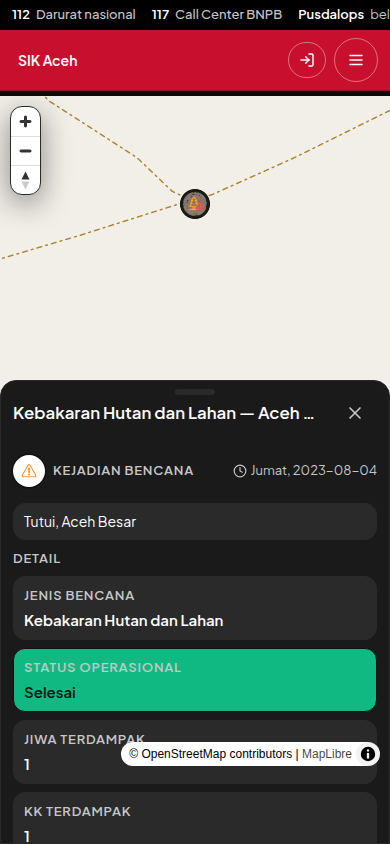
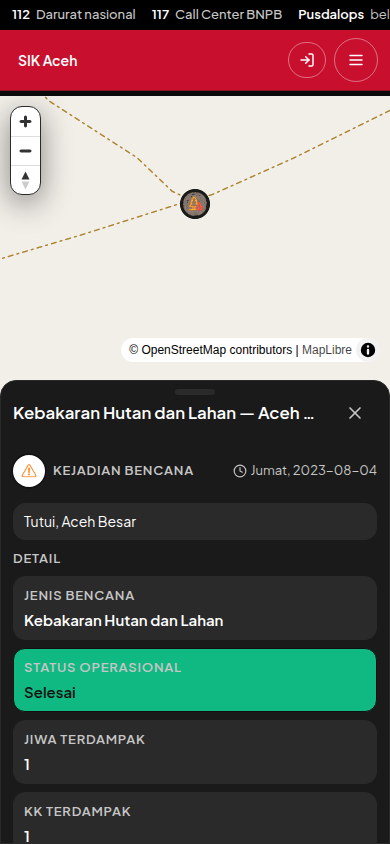
FE-73: lift map attribution above the open phone sheet.
At the default snap the credit strip sits 8px above the sheet and stays clickable. At full it drops under the sheet and returns to the safe-area edge when the sheet closes. A wheel inside the sheet scrolls the card and leaves the map zoom unchanged.

Changed region(s): [[0.3077, 0.8626, 0.9846, 0.9242], [0.3385, 0.4005, 0.8923, 0.4313], [0.9231, 0.4005, 0.9538, 0.4313]]

diff --git a/src/lib/fe-73-map-sheet.test.ts b/src/lib/fe-73-map-sheet.test.ts
@@ -8,6 +8,7 @@ import {
   reduceFeatureSlot,
 } from "@/lib/feature-card-query";
 import {
+  attributionLift,
   nearestSheetSnap,
   sheetCameraPadding,
   sheetFrame,
@@ -57,7 +58,7 @@ describe("FE-73 map sheet", () => {
     assert.doesNotMatch(sheet, /peek/);
   });
 
-  it("hides the layer handle, closes on empty map, and keeps a marker tap open", () => {
+  it("hides the layer handle while the phone sheet is open", () => {
     const css = read("src/app/globals.css");
     const hide = css.slice(css.indexOf("Phone sheet covers"));
     assert.match(hide, /max-width: 767px/);
@@ -67,33 +68,60 @@ describe("FE-73 map sheet", () => {
     const toolbarAt = workspace.indexOf("<MapToolbar");
     const toolbarMount = workspace.slice(toolbarAt, workspace.indexOf("<div", toolbarAt));
     assert.equal(toolbarMount.includes("featurePopupOpen"), false);
+  });
+
+  it("closes from the button, Escape, a swipe past default, or an empty-map tap, then focuses the canvas", () => {
     assert.equal(
       shouldCloseSheetOnMapClick({ narrow: true, sheetOpen: true, hitFeature: false }),
       true,
     );
     assert.equal(
-      shouldCloseSheetOnMapClick({ narrow: true, sheetOpen: true, hitFeature: true }),
-      false,
-    );
-    assert.equal(
       shouldCloseSheetOnMapClick({ narrow: false, sheetOpen: true, hitFeature: false }),
       false,
     );
+    const frame = sheetFrame(844, 0, 2000);
+    assert.equal(nearestSheetSnap(frame.default - 40, frame), "closed");
     const viewport = read("src/components/map/MapViewport.tsx");
     assert.match(viewport, /shouldCloseSheetOnMapClick/);
     assert.match(viewport, /closeEmptySheet/);
-    assert.match(viewport, /setPopup\(\{/);
-    const marker = viewport.slice(viewport.indexOf("pointFeat && pointFeat.geometry.type"));
-    assert.match(marker, /setPopup\(\{/);
-    assert.doesNotMatch(marker.slice(0, marker.indexOf("setCardId(id)")), /setPopup\(null\)/);
+    assert.match(viewport, /getCanvas\(\)\?\.focus\(\)/);
     const sheet = read("src/components/map/MapFeatureSheet.tsx");
     assert.match(sheet, /event.key !== "Escape"/);
     assert.match(sheet, /data-sheet-close/);
     assert.match(sheet, /h-11 w-11/);
     assert.match(sheet, /height: SHEET_HEADER_PX/);
-    assert.match(viewport, /getCanvas\(\)\?\.focus\(\)/);
-    assert.match(sheet, /stopPropagation/);
-    assert.match(css, /z-index:\s*40 !important/);
+  });
+
+  it("replaces sheet content when another marker is tapped", () => {
+    assert.equal(
+      shouldCloseSheetOnMapClick({ narrow: true, sheetOpen: true, hitFeature: true }),
+      false,
+    );
+    const viewport = read("src/components/map/MapViewport.tsx");
+    const marker = viewport.slice(viewport.indexOf("pointFeat && pointFeat.geometry.type"));
+    assert.match(marker, /setPopup\(\{/);
+    assert.doesNotMatch(marker.slice(0, marker.indexOf("setCardId(id)")), /setPopup\(null\)/);
+    assert.match(viewport, /acceptFeatureCard/);
+    assert.match(viewport, /loadFeatureCard/);
+  });
+
+  it("lifts attribution above the default sheet and does not let a wheel inside the sheet zoom the map", () => {
+    const mapBottom = 776;
+    const sheetTop = 380;
+    const lift = attributionLift({ mapBottom, sheetTop, gap: 8 });
+    assert.equal(lift, mapBottom - sheetTop + 8);
+    assert.ok(mapBottom - lift <= sheetTop - 8);
+    const css = read("src/app/globals.css");
+    assert.match(css, /data-sheet-snap="default"\] \.maplibregl-ctrl-bottom-right/);
+    assert.match(css, /bottom:\s*var\(--map-attrib-lift, 0px\)/);
+    assert.match(css, /data-sheet-snap="full"\] \.maplibregl-ctrl-bottom-right/);
+    assert.match(css, /z-index:\s*20 !important/);
+    assert.doesNotMatch(css, /data-feature-popup="open"\] \.maplibregl-ctrl-bottom/);
+    const sheet = read("src/components/map/MapFeatureSheet.tsx");
+    assert.match(sheet, /attributionLift/);
+    assert.match(sheet, /--map-attrib-lift/);
+    assert.match(sheet, /addEventListener\("wheel", stop, \{ capture: true \}\)/);
+    assert.match(sheet, /event\.stopPropagation\(\)/);
   });
 
   it("re-clamps an open popup when the map moves", () => {

diff --git a/src/components/map/MapFeatureSheet.tsx b/src/components/map/MapFeatureSheet.tsx
@@ -5,6 +5,7 @@ import { X } from "lucide-react";
 import { useTranslations } from "next-intl";
 import {
   SHEET_HEADER_PX,
+  attributionLift,
   nearestSheetSnap,
   sheetFrame,
   type SheetSnap,
@@ -93,6 +94,32 @@ export function MapFeatureSheet({
     window.addEventListener("keydown", onKey);
     return () => window.removeEventListener("keydown", onKey);
   }, [onClose]);
+
+  useLayoutEffect(() => {
+    const stage = rootRef.current?.closest(".map-stage");
+    if (!(stage instanceof HTMLElement) || !rootRef.current) return;
+    stage.setAttribute("data-sheet-snap", snap);
+    if (snap !== "default") {
+      stage.style.removeProperty("--map-attrib-lift");
+      return;
+    }
+    const map = stage.querySelector(".maplibregl-map");
+    if (!(map instanceof HTMLElement)) return;
+    const lift = attributionLift({
+      mapBottom: map.getBoundingClientRect().bottom,
+      sheetTop: rootRef.current.getBoundingClientRect().top,
+    });
+    stage.style.setProperty("--map-attrib-lift", `${lift}px`);
+  }, [snap, height]);
+
+  useEffect(() => {
+    return () => {
+      const stage = document.querySelector(".map-stage");
+      if (!(stage instanceof HTMLElement)) return;
+      stage.removeAttribute("data-sheet-snap");
+      stage.style.removeProperty("--map-attrib-lift");
+    };
+  }, []);
 
   useEffect(() => {
     const el = rootRef.current;

diff --git a/src/app/globals.css b/src/app/globals.css
@@ -1023,6 +1023,18 @@ html[data-theme="dark"] .map-layer-icon-disc {
     bottom: var(--map-safe-area-bottom, env(safe-area-inset-bottom, 0px));
     z-index: 40 !important;
   }
+
+  /* Default snap: sit the credit strip just above the sheet. Full snap: tuck it under the sheet. */
+  .map-stage[data-sheet-snap="default"] .maplibregl-ctrl-bottom-right,
+  .map-stage[data-sheet-snap="default"] .maplibregl-ctrl-bottom-left {
+    bottom: var(--map-attrib-lift, 0px);
+    z-index: 40 !important;
+  }
+
+  .map-stage[data-sheet-snap="full"] .maplibregl-ctrl-bottom-right,
+  .map-stage[data-sheet-snap="full"] .maplibregl-ctrl-bottom-left {
+    z-index: 20 !important;
+  }
 }
 
 .peta-teaser-kab {

diff --git a/src/lib/map-sheet.ts b/src/lib/map-sheet.ts
@@ -55,6 +55,19 @@ export function sheetCameraPadding(
   return { top: 0, right: 0, bottom: sheetHeight, left: 0 };
 }
 
+/**
+ * `bottom` offset for the map attribution, relative to the map box,
+ * so the strip's bottom edge sits `gap` px above the sheet.
+ */
+export function attributionLift(opts: {
+  mapBottom: number;
+  sheetTop: number;
+  gap?: number;
+}): number {
+  const gap = opts.gap ?? 8;
+  return Math.max(0, Math.round(opts.mapBottom - opts.sheetTop + gap));
+}
+
 /** A phone tap on empty map closes the sheet. A marker tap does not. */
 export function shouldCloseSheetOnMapClick(opts: {
   narrow: boolean;

diff --git a/docs/pengembangan/jurnal/FE-73.md b/docs/pengembangan/jurnal/FE-73.md
@@ -20,11 +20,11 @@ Spec HOLD: di bawah 768 tidak ada henti mengintip. Henti bawaan `min(55dvh, ting
 
 | Berkas | Isi |
 | --- | --- |
-| `MapFeatureSheet.tsx`, `map-sheet.ts` | Lembar bawah di bawah 768. Henti mengintip, setengah, penuh. Duduk di atas pegangan panel. |
+| `MapFeatureSheet.tsx`, `map-sheet.ts` | Lembar bawah di bawah 768. Henti bawaan dan penuh. `attributionLift` menaikkan strip kredit 8px di atas lembar. |
 | `MapViewport.tsx` | `onMove` mengirim `aceh:map-move`. Lembar di telepon, popup di desktop. Kueri memakai id dan `AbortSignal`. |
 | `MapFeatureCard.tsx` | `layout="sheet"` tidak menjepit. Popup menjepit ulang pada `aceh:map-move`. `fetchFeatureCard` meneruskan `signal`. |
 | `feature-card-query.ts` | `loadFeatureCard` menolak sinyal yang sudah batal. `acceptFeatureCard` menolak kartu yang id-nya bukan fitur terbuka. |
-| `ReportFAB.tsx`, `globals.css` | FAB naik `5.75rem` + tinggi strip kredit + 8px. `--map-credit-strip` diukur dari kontrol ⓘ. |
+| `ReportFAB.tsx`, `globals.css` | FAB naik `5.75rem` + tinggi strip kredit + 8px. `--map-credit-strip` diukur dari kontrol ⓘ. Saat henti bawaan, `.maplibregl-ctrl-bottom-*` memakai `--map-attrib-lift`. Saat penuh, z-index 20 di bawah lembar. |
 | `StatusScaleChip.tsx` | `min-h-[44px]` dan `min-w-[44px]`. |
 | `DataHero.tsx` | Daftar "Kejadian per kab/kota" memakai `pb-6`. |
 | `messages/id.json`, `messages/en.json` | `map.sheetHandle`. |
@@ -56,8 +56,23 @@ Daftar kab/kota: baris terakhir "Kota Banda Aceh" atas 340, bawah 377, padding-b
 Uji: geser melewati henti bawaan menutup. Ketukan penanda tidak menutup. Ketukan peta kosong menutup.
 Jawaban pertama yang datang setelah abort ditolak (AbortError). Jawaban id "a" tidak diterima untuk id "b".
 
+Atribusi, 390×844, lembar terbuka.
+Henti bawaan, inset 0 dan 34 sama: strip `.maplibregl-ctrl-bottom-right` x 111, y 328, 279×44, bawah 372.
+Lembar atas y 380, tinggi 464. Jarak strip ke lembar 8px. Tidak berpotongan. `--map-attrib-lift` 404px.
+ⓘ x 356, y 338, 24×24. Ketukan tengah strip mengenai DIV.maplibregl-ctrl-attrib-inner. Ketukan ⓘ mengenai SUMMARY.maplibregl-ctrl-attrib-button.
+Penuh, inset 0: strip x 111, y 732, 279×44, di bawah lembar. Ketukan mengenai isi lembar (DIV.grid).
+Penuh, inset 34: strip x 111, y 698, 279×44, di bawah lembar. Ketukan mengenai teks lembar.
+Escape, inset 0: lembar hilang, snap kosong, lift kosong. ⓘ x 356, y 742, 24×24, ketukan mengenai tombol atribusi.
+Escape, inset 34: ⓘ x 356, y 708, 24×24, ketukan mengenai tombol atribusi.
+
+Roda di dalam lembar (pointer x 195, y 485, deltaY 400): scrollTop 0 → 374 (scrollHeight 772, clientHeight 398). Zoom tetap 18.
+
+Uji butir 4: "hides the layer handle while the phone sheet is open".
+Uji butir 5: "closes from the button, Escape, a swipe past default, or an empty-map tap, then focuses the canvas".
+Uji butir 6: "replaces sheet content when another marker is tapped".
+
 npx tsc --noEmit → exit 0
-npm test → 956 pass, 0 fail
+npm test → 959 pass, 0 fail
 npm run lint → exit 0 (peringatan `<img>` yang sudah ada)
 npm run build → exit 0
 ```
@@ -74,6 +89,9 @@ npm run build → exit 0
 - [x] ⓘ dan FAB tidak berpotongan; jarak inset 34 = 42px
 - [x] FAB beranda di 16px + safe-area; kartu merah tidak tertutup
 - [x] Baris terakhir daftar kab/kota tidak terpotong
+- [x] Strip atribusi duduk 8px di atas lembar pada henti bawaan, terlihat dan bisa diketuk
+- [x] Pada henti penuh strip berada di bawah lembar; setelah tutup ⓘ kembali ke tepi bawah
+- [x] Gulir di dalam lembar tidak mengubah zoom peta
 
 ## Keputusan
 

diff --git a/docs/pengembangan/STATUS.md b/docs/pengembangan/STATUS.md
@@ -722,7 +722,7 @@ Atribusi telepon hanya naik sebesar safe-area, karena stage sudah memberi `pb-[4
 
 ## FE-73 — lembar bawah peta
 
-Di bawah 768 keterangan fitur menjadi lembar dengan henti bawaan dan penuh, menempel tepi bawah. Pegangan panel disembunyikan saat lembar terbuka. Popup desktop dijepit ulang saat peta bergerak. FAB peta ikut safe-area. Chip status minimal 44px. Daftar kab/kota menyisakan `pb-6`. Kueri kartu terikat pada id fitur.
+Di bawah 768 keterangan fitur menjadi lembar dengan henti bawaan dan penuh, menempel tepi bawah. Pegangan panel disembunyikan saat lembar terbuka. Strip atribusi duduk 8px di atas lembar pada henti bawaan. Popup desktop dijepit ulang saat peta bergerak. FAB peta ikut safe-area. Chip status minimal 44px. Daftar kab/kota menyisakan `pb-6`. Kueri kartu terikat pada id fitur.
 
 | id | agent | judul | jurnal | status |
 | --- | --- | --- | --- | --- |
